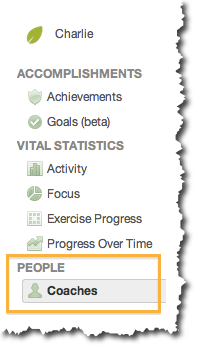
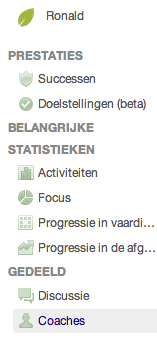
platform changes wednesday

Changed region(s): [[0.0, 0.0, 0.9682, 0.9913], [0.2803, 0.0292, 0.535, 0.1166]]

diff --git a/templates/macros/coach.html b/templates/macros/coach.html
@@ -9,7 +9,7 @@
         <h3>Elk van je leerlingen moet de volgende stappen ondernemen:</h3>
         <ol>
             <li>
-                <p>Allereerst, moeten ze naar <a href="/profile">hun profiel</a> door bovenaan de pagina op hun naam te klikken.</p>
+                <p>Ten eerste moeten ze naar <a href="/profile">hun profiel</a> gaan door bovenaan de pagina op hun naam te klikken. (zie 'test' in afbeelding)</p>
                 <img src="/images/profile-link-in-header.png?1" class="vertical-shadow rounded-background" />
             </li>
             <li>
@@ -20,9 +20,9 @@
                 <!-- Are you a flying chimpanzee? Are you changing this element or anything inside?
                 If you answered yes to any of these questions, please update the positioning of the coach email.
                 Look in default.css for #empty-class ol li.enter-email div.coach-email -->
-                <p>Tenslotte, moeten ze jouw Coach id invoeren en klikken op <em>Add coach</em> button.</p>
+                <p>Tenslotte, moeten ze jouw Coach id invoeren en op <em>voeg coach toe</em> klikken.</p>
                 {% if UserData.current() %}
-                    <p>Jouw coach is <strong>{{ coach_email|escape }}</strong>.</p>
+                    <p>Jouw coach id is <strong>{{ coach_email|escape }}</strong>.</p>
                 {% else %}
                     <p>{{ coach_email|escape}}</p>
                 {% endif %}

diff --git a/templates/viewclassprofile.html b/templates/viewclassprofile.html
@@ -16,8 +16,8 @@
 
 {% block pagesubmenu %}
 <span class="breadcrumbs_nav">
-    <a href="{% if user_data.is_demo %}/logout?continue={% endif %}/coach/resources" id="teacher-resources" {%if user_data.is_demo %}class="show-demo-dialog"{% endif %}>Middelen voor de lera(a)r(es)<span style="font-size:8px;color:orange;font-weight:bold"> NEW</span></a>
-    <a href="{% if user_data.is_demo %}/logout?continue={% endif %}/students" id="manage-students" {%if user_data.is_demo %}class="show-demo-dialog"{% endif %}>Manage leerlingen</a>
+    <a href="{% if user_data.is_demo %}/logout?continue={% endif %}/coach/resources" id="teacher-resources" {%if user_data.is_demo %}class="show-demo-dialog"{% endif %}>Middelen voor de leraar/lerares<span style="font-size:8px;color:orange;font-weight:bold"> Nieuw</span></a>
+    <a href="{% if user_data.is_demo %}/logout?continue={% endif %}/students" id="manage-students" {%if user_data.is_demo %}class="show-demo-dialog"{% endif %}>Beheer leerlingen</a>
     <a href="{% if user_data.is_demo %}/logout?continue={% endif %}/class_profile" id="class-stats" class="selected{%if user_data.is_demo %} show-demo-dialog{% endif %}">Klassen overzicht voor</a>
     <span id="studentlists_dropdown" style="display:none;">
         <a>{{ student_list.name|escape }}</a>

diff --git a/third_party/mapreduce-src/python/src/mapreduce/lib/pipeline/ui/jquery.timeago.js b/third_party/mapreduce-src/python/src/mapreduce/lib/pipeline/ui/jquery.timeago.js
@@ -28,19 +28,19 @@
       strings: {
         prefixAgo: null,
         prefixFromNow: null,
-        suffixAgo: "ago",
-        suffixFromNow: "from now",
-        seconds: "%d seconds",  // Local modification.
-        minute: "about a minute",
-        minutes: "%d minutes",
-        hour: "about an hour",
-        hours: "about %d hours",
-        day: "a day",
-        days: "%d days",
-        month: "about a month",
-        months: "%d months",
-        year: "about a year",
-        years: "%d years",
+        suffixAgo: "geleden",
+        suffixFromNow: "sinds nu",
+        seconds: "%d seconden",  // Local modification.
+        minute: "ongeveer een minuut",
+        minutes: "%d minuten",
+        hour: "ongeveer een uur",
+        hours: "ongeveer %d uur",
+        day: "een dag",
+        days: "%d dagen",
+        month: "ongeveer een maand",
+        months: "%d maanden",
+        year: "ongeveer een jaar",
+        years: "%d jaren",
         numbers: []
       }
     },

diff --git a/javascript/shared-package/jquery.timeago.js b/javascript/shared-package/jquery.timeago.js
@@ -32,19 +32,19 @@
       strings: {
         prefixAgo: null,
         prefixFromNow: null,
-        suffixAgo: "ago",
-        suffixFromNow: "from now",
+        suffixAgo: "geleden",
+        suffixFromNow: "sinds nu",
         seconds: "less than a minute",
-        minute: "about a minute",
-        minutes: "%d minutes",
-        hour: "about an hour",
-        hours: "about %d hours",
-        day: "a day",
-        days: "%d days",
-        month: "about a month",
-        months: "%d months",
-        year: "about a year",
-        years: "%d years",
+        minute: "ongeveer een minuut",
+        minutes: "%d minuten",
+        hour: "ongeveer een uur",
+        hours: "ongeveer %d uur",
+        day: "a dag",
+        days: "%d dagen",
+        month: "ongeveer een maand",
+        months: "%d maanden",
+        year: "ongeveer een jaar",
+        years: "%d jaren",
         numbers: []
       }
     },
